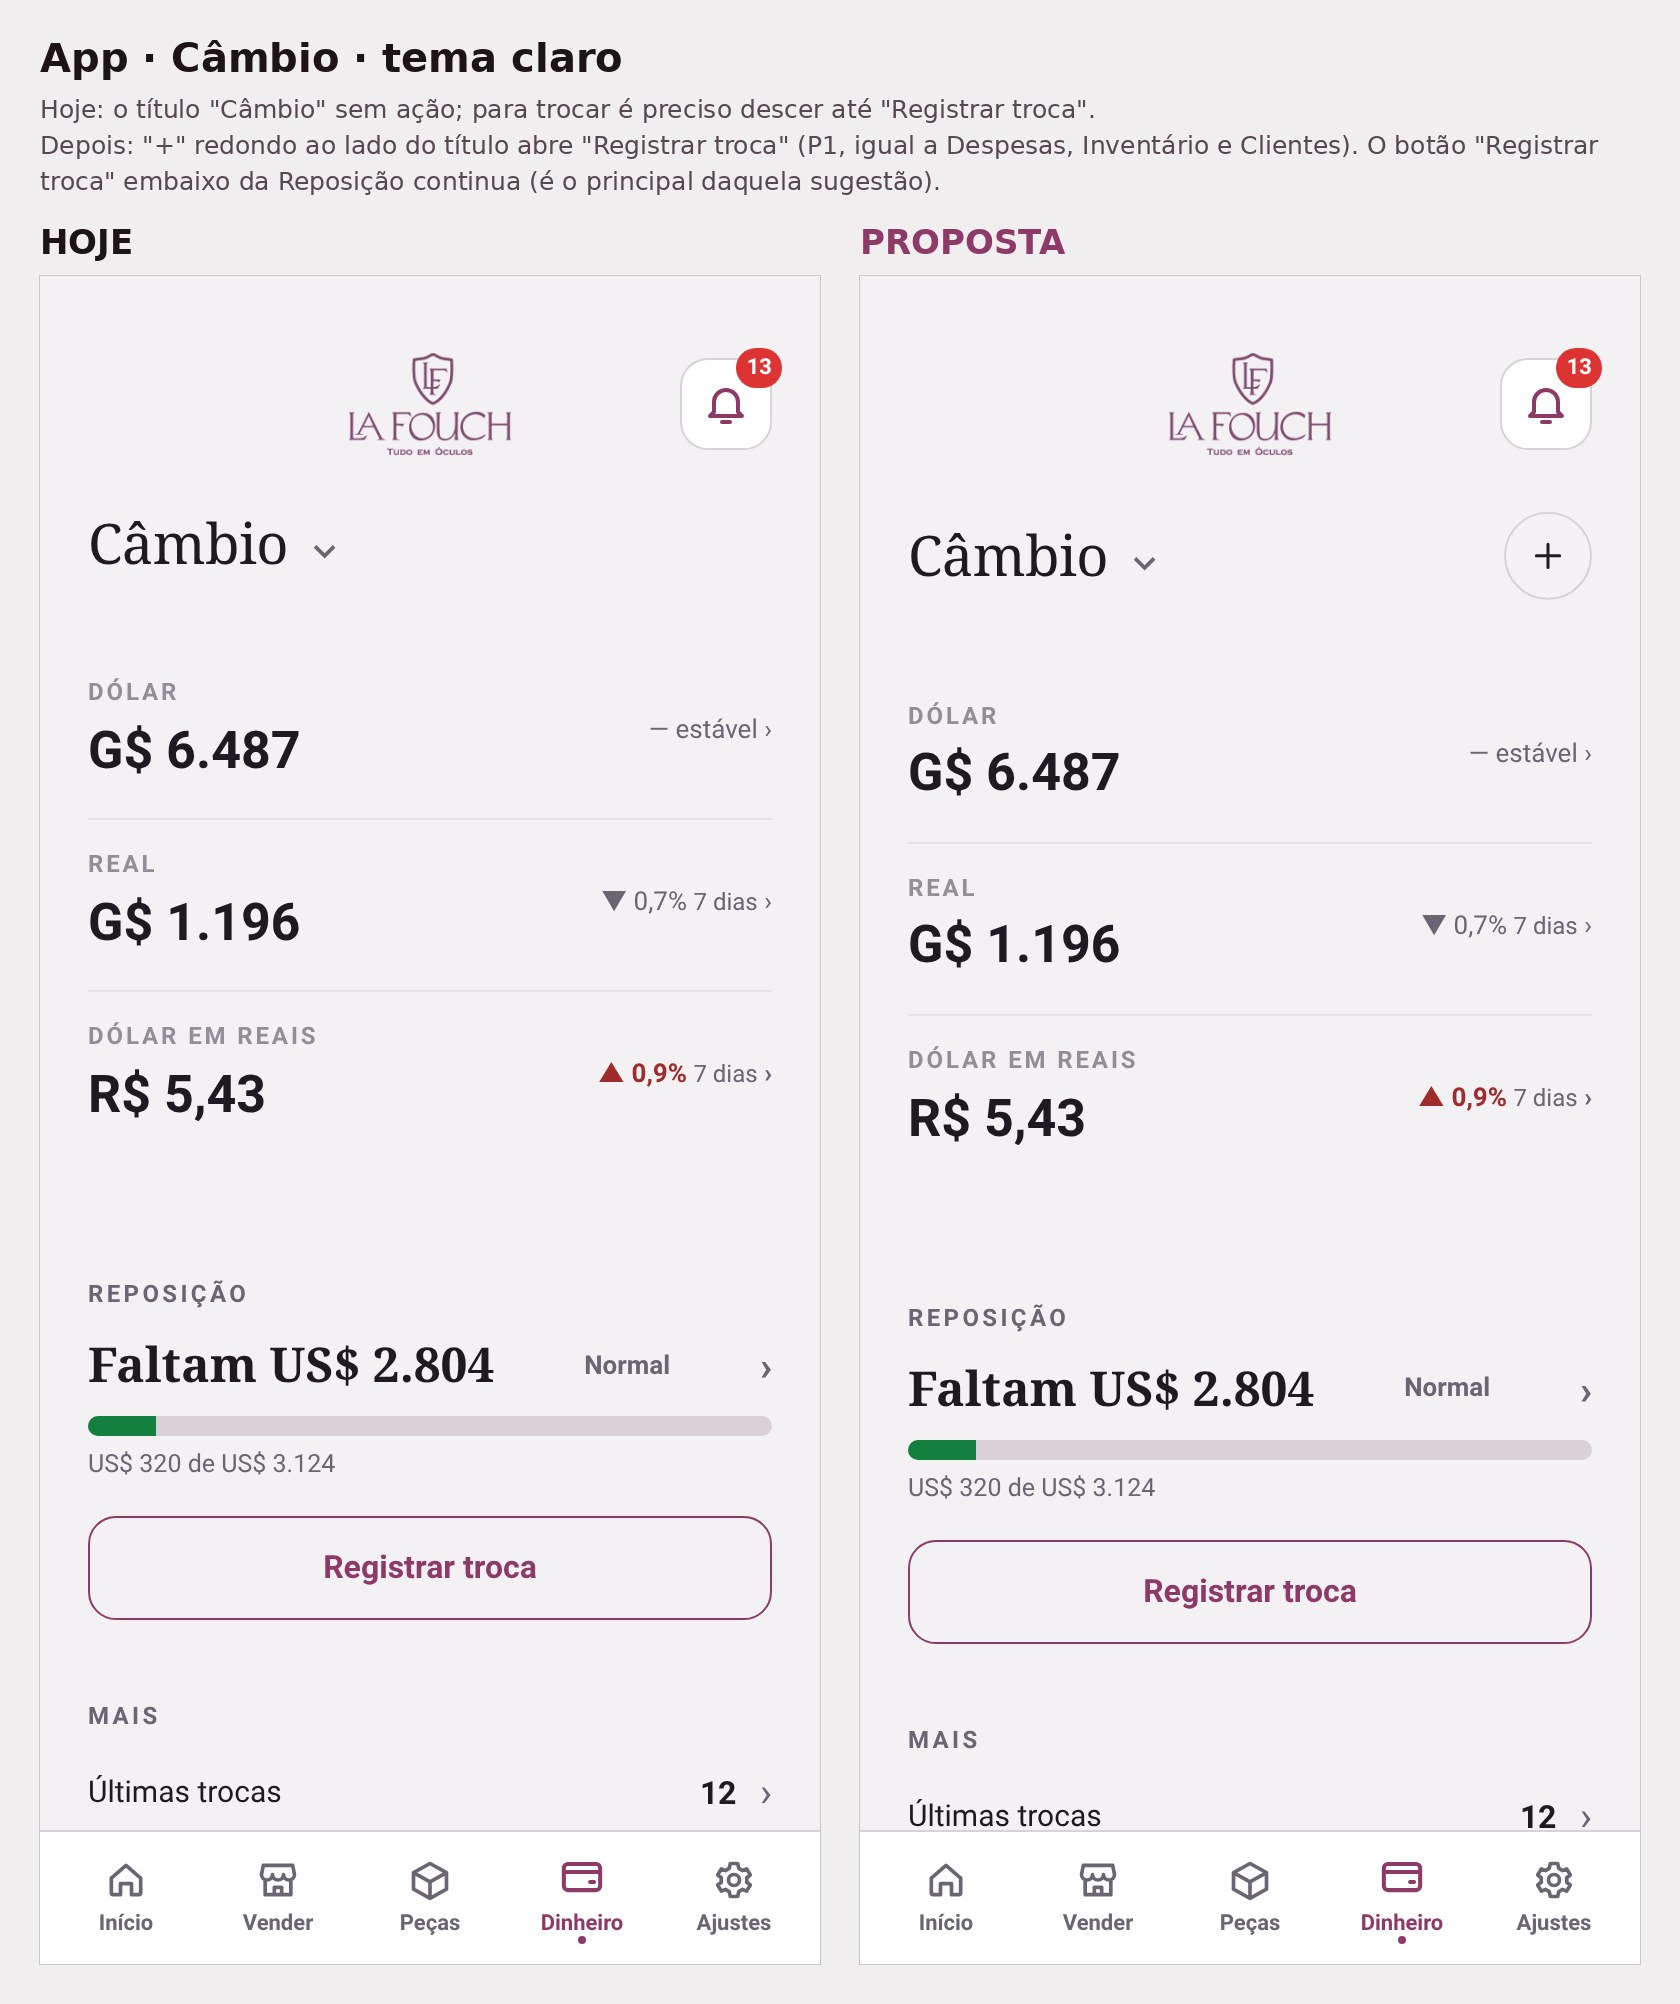
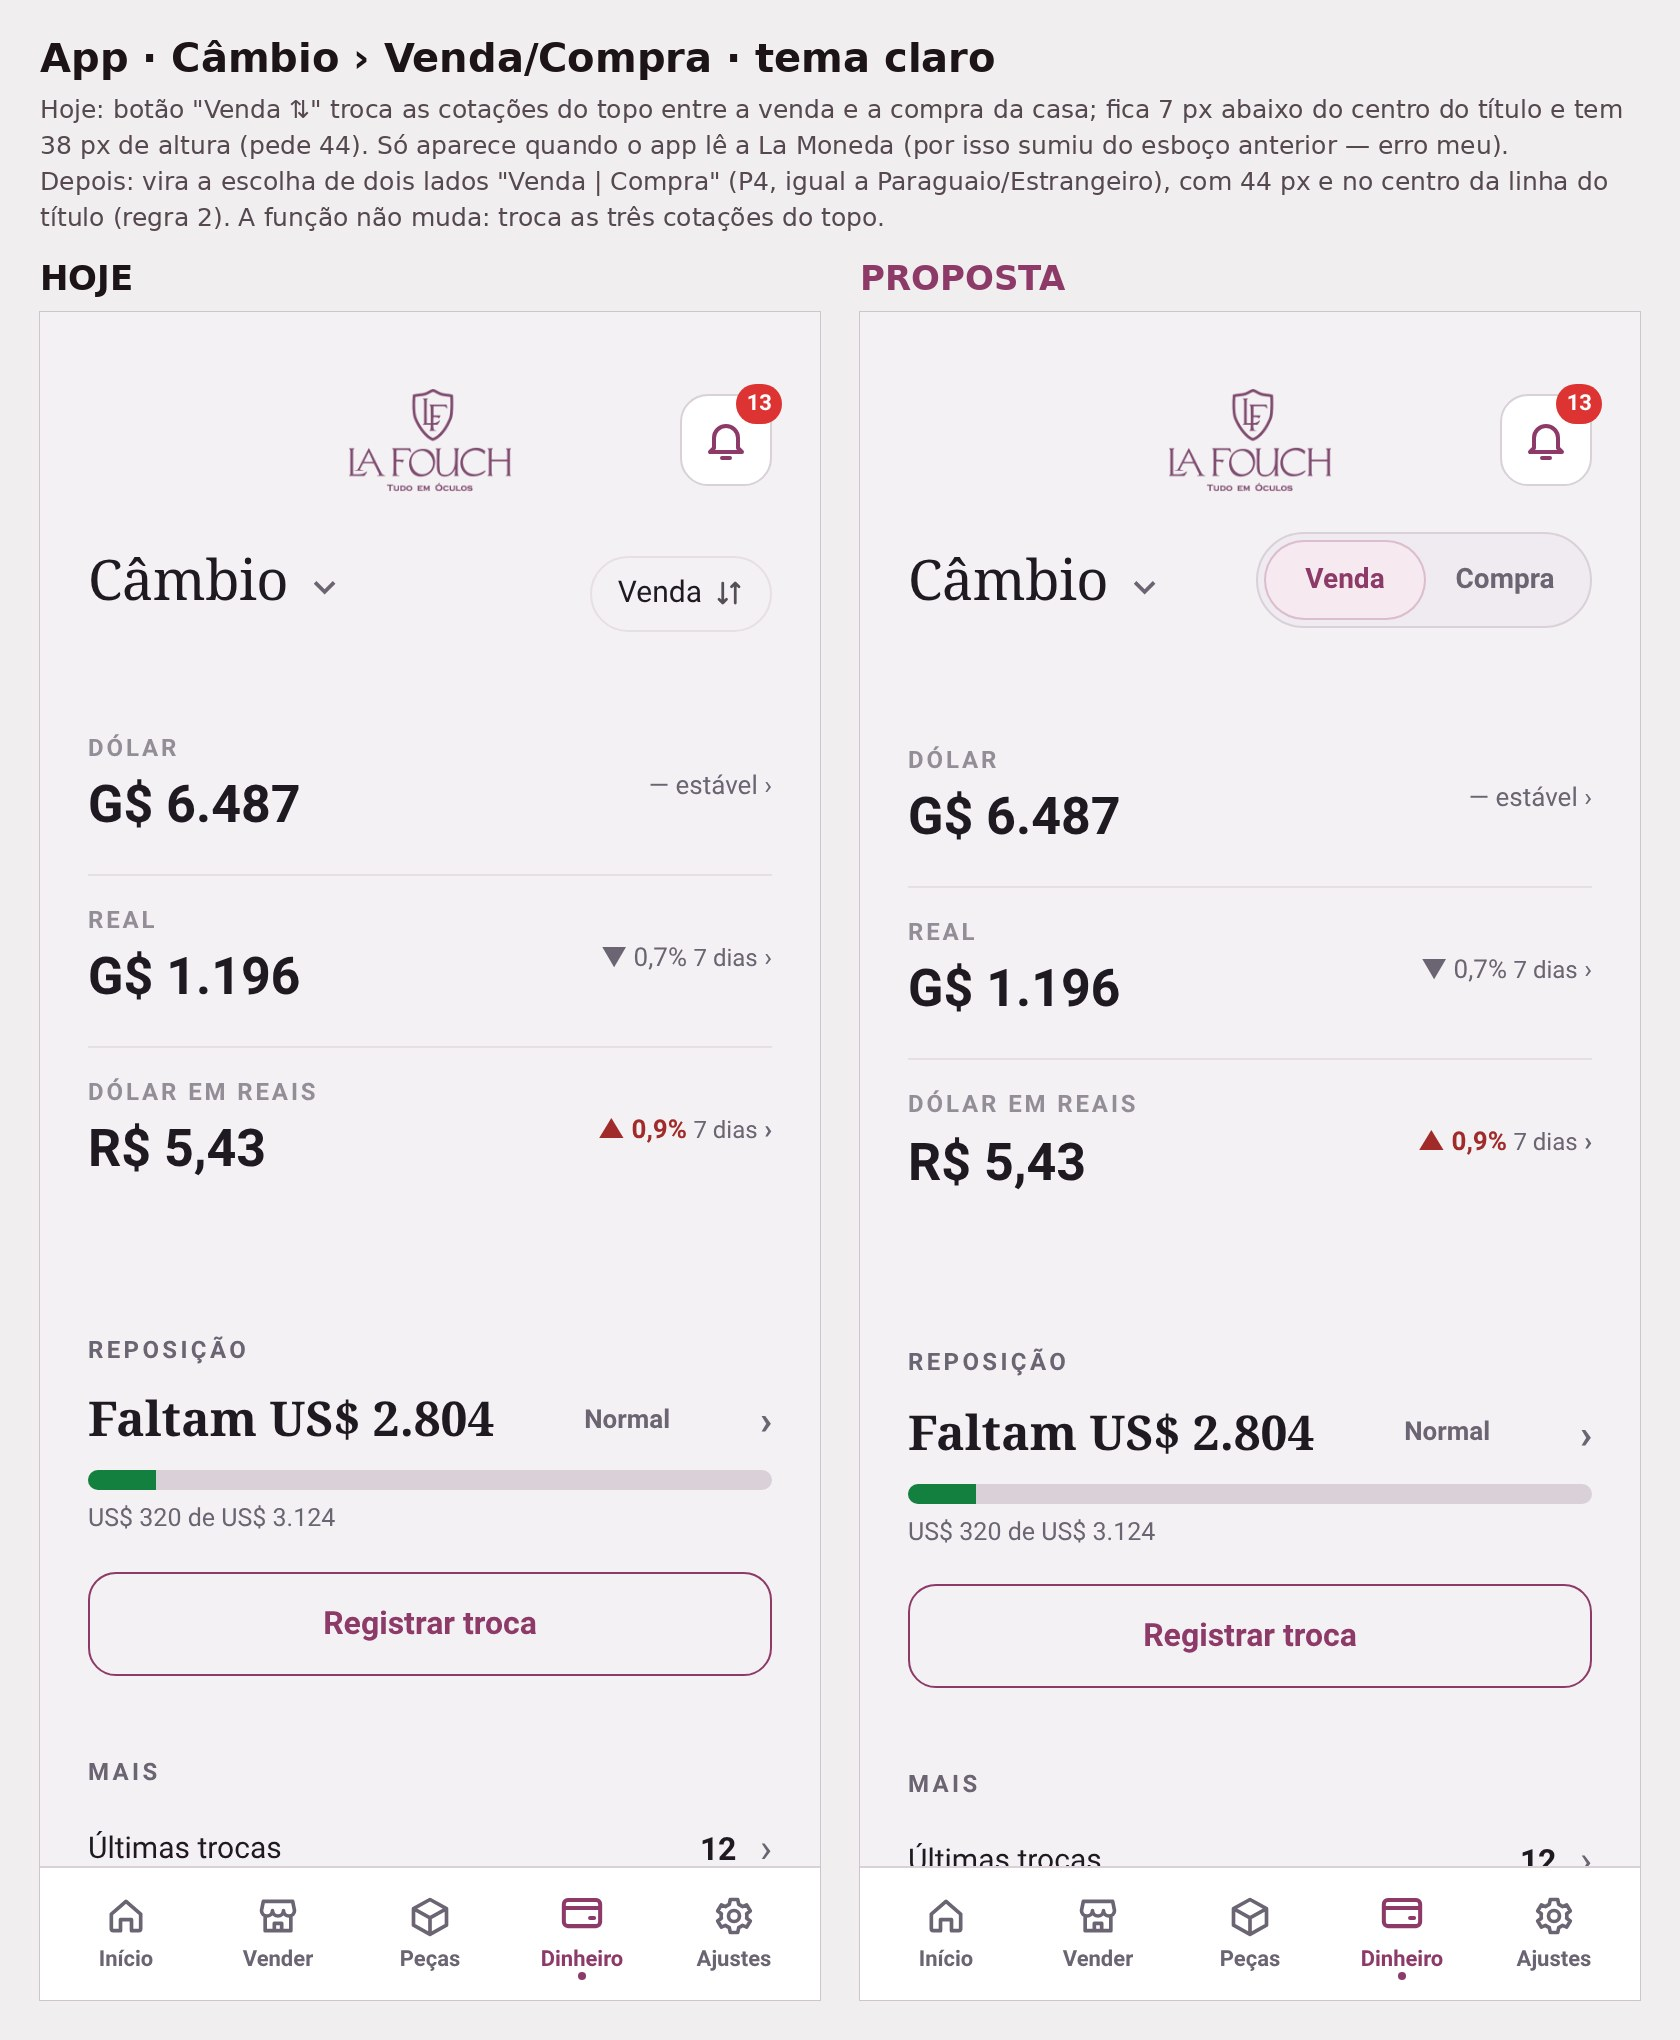
S425: 135i refeito (Venda/Compra)
Claude-Session: https://claude.ai/code/session_01Vj5GPRt4UBskC3w8v52h7G

diff --git a/work/s425/esb135.py b/work/s425/esb135.py
@@ -50,10 +50,10 @@ CASOS=[
   ["""()=>{document.querySelectorAll('.view b').forEach(b=>{b.textContent=b.textContent.replace(/\\b1 dias\\b/,'1 dia')});document.querySelectorAll('.view *').forEach(e=>{const f=getComputedStyle(e).fontFamily;if(/Fraunces|Georgia/.test(f)&&!e.matches('h1,h1 *,.ttl,.ttl *')&&e.getBoundingClientRect().top>200)e.style.setProperty('font-family','Roboto, system-ui, sans-serif','important')})}"""],
   'Hoje: números do resumo na letra de título (serifada); "Black Friday em 1 dias".',
   'Depois: números na letra do texto, como no Dashboard (T); "Black Friday em 1 dia" (W).'),
- ('i','cambio','Câmbio',["()=>__LF.setView('fx')"],'',
-  ["""()=>{const h=document.querySelector('#v-fx h1');if(!h||document.querySelector('[data-b135i]'))return;const row=h.closest('.top,.grpTop,[class*=Top]')||h.parentElement;row.style.cssText+=';display:flex;align-items:center;justify-content:space-between';row.insertAdjacentHTML('beforeend','<button type="button" class="pl78" data-b135i aria-label="Registrar troca" style="margin:0">%s</button>')}"""%MAIS,CAB],
-  'Hoje: o título "Câmbio" sem ação; para trocar é preciso descer até "Registrar troca".',
-  'Depois: "+" redondo ao lado do título abre "Registrar troca" (P1, igual a Despesas, Inventário e Clientes). O botão "Registrar troca" embaixo da Reposição continua (é o principal daquela sugestão).'),
+ ('i','cambio','Câmbio › Venda/Compra',["()=>{const S=__LF.S;S.lm={usd:{v:6487,c:6420},brl:{v:1196,c:1180},eur:{v:7100,c:7000},arb:{v:5.43,c:5.38},ts:Date.now(),hora:'15:00',fonte:'Sucursal Jebai'};__LF.setView('inicio');__LF.setView('fx');return 1}"],'',
+  ['''()=>{const b=document.querySelector('.fxModo');if(!b||document.querySelector('[data-b135i]'))return;const c=/Compra/.test(b.textContent);const w=document.createElement('div');w.className='catbar3';w.setAttribute('data-b135i','1');w.style.cssText='display:flex;gap:0;width:168px;flex:none;margin:0';w.innerHTML='<button type="button" class="cb3'+(c?'':' on')+'" style="flex:1;border-radius:999px">Venda</button><button type="button" class="cb3'+(c?' on':'')+'" style="flex:1;border-radius:999px">Compra</button>';b.replaceWith(w);const h=document.querySelector('#v-fx h1');const r=document.createRange();r.selectNodeContents(h);const q=[...r.getClientRects()][0];const wq=w.getBoundingClientRect();w.style.transform='translateY('+(((q.top+q.bottom)/2)-((wq.top+wq.bottom)/2)).toFixed(1)+'px)'}'''],
+  'Hoje: botão "Venda ⇅" troca as cotações do topo entre a venda e a compra da casa; fica 7 px abaixo do centro do título e tem 38 px de altura (pede 44). Só aparece quando o app lê a La Moneda (por isso sumiu do esboço anterior — erro meu).',
+  'Depois: vira a escolha de dois lados "Venda | Compra" (P4, igual a Paraguaio/Estrangeiro), com 44 px e no centro da linha do título (regra 2). A função não muda: troca as três cotações do topo.'),
 ]
 with sync_playwright() as pw:
   for k,nome,tit,ps,css,js,h,p in [c for c in CASOS if c[0] in (os.environ.get('SO') or 'abcdefghi')]:

diff --git a/work/s425/i8.py b/work/s425/i8.py
@@ -1,0 +1,7 @@
+import sys;sys.path.insert(0,'/home/claude/lafouch/work/s349');import ap
+from playwright.sync_api import sync_playwright
+LM="()=>{const S=__LF.S;S.lm={usd:{v:6487,c:6420},brl:{v:1196,c:1180},eur:{v:7100,c:7000},arb:{v:5.43,c:5.38},ts:Date.now(),hora:'15:00',fonte:'Sucursal Jebai'};__LF.setView('inicio');__LF.setView('fx');return 1}"
+with sync_playwright() as pw:
+  b,pg,w=ap.abre(pw,'inicio',True);w(500);print(pg.evaluate(LM));w(1200)
+  print(pg.evaluate("""()=>{const h=document.querySelector('#v-fx h1');const b=document.querySelector('.fxModo');if(!b)return 'sem botão';const r=document.createRange();r.selectNodeContents(h);const q=[...r.getClientRects()][0];const bq=b.getBoundingClientRect();const cs=getComputedStyle(b);return {titulo:(q.top+q.bottom)/2,botao:(bq.top+bq.bottom)/2,dir:bq.right,txt:b.innerText,h:bq.height,w:bq.width,rad:cs.borderRadius,bd:cs.border}}"""))
+  pg.screenshot(path='/tmp/s425/fxc.png');b.close()

diff --git a/docs/MEMORIA-PROJETO.md b/docs/MEMORIA-PROJETO.md
@@ -3102,3 +3102,4 @@ Testar TUDO, com muita calma, antes de dizer que está pronto ou de publicar: ca
 - 18/11 14:40 — ESBOÇOS RÁPIDOS 135a–135h (work/s425/esb135.py, claro e escuro), ESPERANDO: a Despesas ("+" redondo no centro do título; Aluguel em linha) · b Caixa › Objetivos (sem cartão, versalete, "+" ao lado do bloco) · c Atacado (+ redondo, 32 px, tela vazia com ícone centralizada) · d Giro (dobras sem cartão) · e Retirada (moeda na escolha de dois lados, campos em linha) · f Registrar troca (De/Para escolha de dois lados, campos em linha) · g Pendências (linhas, ação "Ver ›" rosa) · h Preços (números na letra do texto; "1 dia"). Base: 132, 133a/b, 134. Olho nada novo; alinhamento caiu em todas (ex.: Giro 8→0, Pendências 12→0). Conflito 134d × P6 fica para depois (dono).
 - 18/11 14:55 — DONO: "quase tudo aprovado, dois detalhes"; 1º: 135b fora do padrão no fim → refeito: aviso do caixa vira frase vermelha sem caixa (link centralizado embaixo) e Movimentos em linhas finas com versalete. Esperando o 2º detalhe.
 - 18/11 15:05 — DONO: (2º detalhe) "não devia ter um botão na aba câmbio no começo? e uma divisão na mensagem em vermelho?" → 135b: aviso separado por linha fina acima; NOVO 135i Câmbio: "+" redondo ao lado do título abre Registrar troca (o botão principal embaixo da Reposição continua). Esperando aprovação do 135 inteiro.
+- 18/11 15:15 — DONO: "você confundiu muito feio, esse botão é para alternar entre compra/venda" → ERRO MEU: o botão "Venda ⇅" (fxModo) existe, mas só aparece quando o app lê a La Moneda; o simulador não tinha a cotação da casa e ele sumiu. LIÇÃO: nos esboços/testes do Câmbio, simular a casa (S.lm) para o botão aparecer. 135i refeito: "Venda | Compra" na escolha de dois lados (P4), 44 px, no centro do título. (Hoje: 7 px abaixo do centro, 38 px de altura.)

diff --git a/docs/FALTA-APROVAR-15-11.md b/docs/FALTA-APROVAR-15-11.md
@@ -620,3 +620,4 @@ Não são esquecimento (estavam na lista, parados de propósito ou por ordem do 
 - 18/11 14:55 — DONO: "quase tudo aprovado, dois detalhes"; 1º: 135b fora do padrão no fim → refeito: aviso do caixa vira frase vermelha sem caixa (link centralizado embaixo) e Movimentos em linhas finas com versalete. Esperando o 2º detalhe.
 - 18/11 15:05 — DONO: (2º detalhe) "não devia ter um botão na aba câmbio no começo? e uma divisão na mensagem em vermelho?" → 135b: aviso separado por linha fina acima; NOVO 135i Câmbio: "+" redondo ao lado do título abre Registrar troca (o botão principal embaixo da Reposição continua). Esperando aprovação do 135 inteiro.
 - 18/11 14:13 — Medidor recolhível (botão – / etiqueta "Medidor ▸"): aprovado e implementado — publicado na S427.
+- 18/11 15:15 — DONO: "você confundiu muito feio, esse botão é para alternar entre compra/venda" → ERRO MEU: o botão "Venda ⇅" (fxModo) existe, mas só aparece quando o app lê a La Moneda; o simulador não tinha a cotação da casa e ele sumiu. LIÇÃO: nos esboços/testes do Câmbio, simular a casa (S.lm) para o botão aparecer. 135i refeito: "Venda | Compra" na escolha de dois lados (P4), 44 px, no centro do título. (Hoje: 7 px abaixo do centro, 38 px de altura.)
